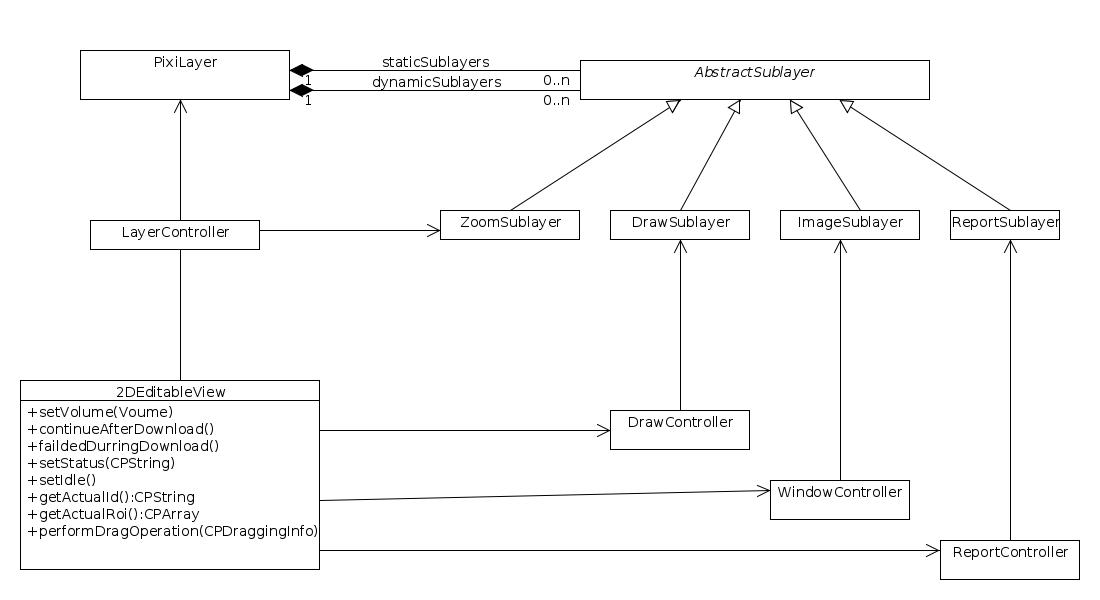
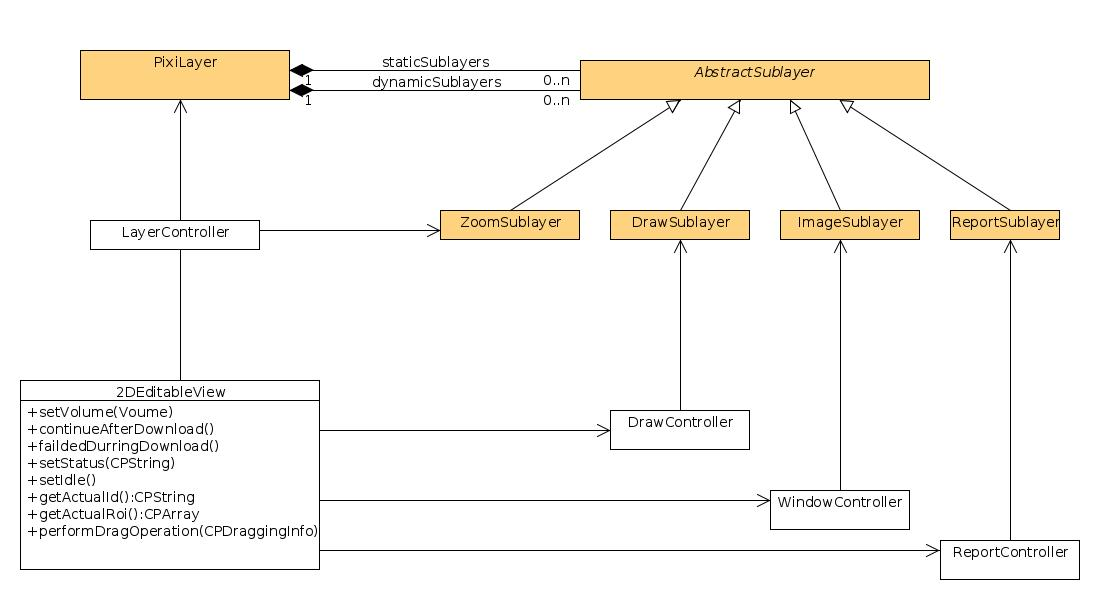
Kapitel3: Einleitungen und conclusio für kapitel hinzugefügt; Listings referenziert; Listings font geändert

diff --git a/s3_methodology.tex b/s3_methodology.tex
@@ -5,6 +5,15 @@
 %-------------------------------------------------------
 \section{Methodology}
 \label{sec:methodology}
+\C{
+In diesem Kapitel wird die Umsetzung des Web-Frontends für KRESHMOI beschrieben.
+Zuerst werden die wichtigsten Framworks und Technologien vorgestellt welche die technischen Grundlagen der Anwendung bilden.
+Weiters werden alle wichtigen funktionalen Anforderungen der Anwendung aufgezeigt und grundlegend auf die Bedienung der Applikation eingegangen.
+Wie die funktionalen Anforderungen umgesetzt wurden wird im darauf folgenden Unterkapitel beschrieben.
+Hier werden Lösungen für die technische Umsetzung der Fensterung sowie für die nicht funktionale Anforderung einer modularen Applikation präsentiert.
+Zum Schluss wird noch die API für KRESHMOI selbst vorgestellt welche die Anwendung für den Datenaustausch mit den System nutzt.
+}
+
 
 %----------------------------------------------
 % * Verwendetet Technologien
@@ -233,10 +242,10 @@ Weiters wird angegeben wie die Fensterung mit zwei verschiedenen Technologien im
 %----------------------------------------------
 \subsubsection{Framework für dynamischen Layouts}
 \label{sec:Umsetzung der dynamischen Layouts}
-Das eines der zentralen Konzepete bei der Darstellung von Bedien- und Anzeige-Elementen in Cappuccino ist die View Klasse (Siehe Figure \ref{fig:cappuccino_view_concept} ), 
+Eines der zentralen Konzepete bei der Darstellung von Bedien- und Anzeige-Elementen in Cappuccino ist die View Klasse (Siehe Figure \ref{fig:cappuccino_view_concept} ), 
 von welcher all diese Elemente erben.
 In eine View können wiederum weitere Sub-Views eingehängt und innerhalb dieser Positioniert werden.
-Die Darstellung der Elemente erfolgt in einem Fenster, welche als erste View in der Hirachie ihre sogenannte ContentView zur Verfügung stellt.
+Die Darstellung der Instanzierten Elemente erfolgt in einem Fenster, welche als erste View in der Hirachie ihre sogenannte ContentView zur Verfügung stellt.
 \begin{figure}[t]
 	\centering
 	\includegraphics[width=0.6\linewidth]{img/c3_cappuccino_view_concept.jpg}
@@ -255,9 +264,9 @@ im weiteren as Superelemente bezeichnet,
 erben von dieser View-Klasse, 
 wodurch Sie in einer übergeordneten View einfach in verschiedenen Layouts angeordnet werden können.
 Die Anordung der Superelemente sowie die Kommunikation zwischen ihnen erfolgt in einem LayoutController.
-Der LayoutController kapselt das von Ihm erstellte Layout in einer LayoutView welche dann in die ContentView des Fensters eingehängt wird.
+Der LayoutController kapselt das von Ihm erstellte Layout in einer LayoutView welche dann in die ContentView des Anzeige-Fensters eingehängt wird.
 Durch dieses Konzept (Siehe Figure \ref{fig:layout_framework} ) lassen sich die Anzahl und Anordung der Superelemente einfach zur Laufzeit ändern,
-da bei einer Änderung nur ein neuer LayoutController instanziert und seine LayoutView gegen die akutelle in der ContentView getauscht werden muss.
+da bei einer Änderung nur ein neuer LayoutController instanziert und seine LayoutView gegen die akutelle LayoutView in der ContentView getauscht werden muss.
 Zur Erhaltung der Nutzdaten muss jeder LayoutController Funktionen zum Setzen und Abfragen dieser zur Verfügung stellen.
 Die Behandlung von Layout-Änderungen finden im LayoutControllerManager statt, 
 welcher sich um den Austausch der LayoutView kümmert und die Nutzdaten vom alten in den neuen LayoutController überträgt.
@@ -392,29 +401,38 @@ Bei diesen Layern werden Skalierung und Positionierung nur auf den ImageLayer un
 Um die Software möglichst erweiterbar zu gestalten,
 wurde eine LayerKlasse $PixiLayer$ entwickelt welcher eine beliebige Menge von Sublayern hizugefügt werden kann.
 Dabei wird zwischen statischen Sublayern welche jeweils nur die Anzeigefläche ausfüllen und dynamischen Sublayern welche gemeinsam skaliert und positioniert werden können unterschieden.
-Diese Layerklasse erledigt auch die Konvertierung von Punkten zwischen den dynamischen und den statischen Sublayern, in Hisicht auf Postion, Skalierung und Layerdimension.
+Diese Layerklasse erledigt auch die Konvertierung von Punkten zwischen den dynamischen und den statischen Sublayern, im Bezug auf Postion, Skalierung und und der Abmessungen des Layers da das Zentrum als Nullpunkt angenommen wird.
 Da die restliche GUI mit Cappuccino aufgebaut wurde und dieses Framework auch die Ereignisse für Größenänderungen der einzelen Views behandelt,
-müssen diese vom ViewObjekt welches den 2D-Betrachter Kapselt an das Grafikfenster weiter gegeben werden.
-Ansonsten ist das Pixi.JS basierte Grafikfenster durch die LayerKlassen bis auf Funktionen zur Übergabe der Anzeigedaten und zur Punktkonvertierung vom 2D-Betrachter abgeschottet.
-Die eigentliche Logik des Betrachters ist in den Layern zugeordnete Controller-Klassen gekapselt.
+müssen diese vom Cappuccino View-Objekt welches den 2D-Betrachter Kapselt an das Grafikfenster weiter gegeben werden.
+Ansonsten ist das Pixi.JS basierte Grafikfenster durch die Layer- und Sublayler-Klassen bis auf Funktionen zur Übergabe der Anzeigedaten und zur Punktkonvertierung vom 2D-Betrachter abgeschottet.
+Die eigentliche Logik des Betrachters ist in den Sublayern zugeordnete Controller-Klassen gekapselt.
 Die Betrachter-Klasse selbst ist hauptsächlich für die Erstelltung der Bedienelemente und die Behandlung von Events verantwortlich.
+Die Grob-Architektur des Betrachters wird in Abbildung \ref{fig:omip_klass_layout} dargestellt.
+Die Klassen welche mit Pixi.JS interagieren und das Framework steuern sind in der Abbildung orange eingezeichnet.
 \begin{figure}[t]
 	\centering
 		\includegraphics[width=\linewidth]{img/s3_2dview_class_structure.jpg}
 	\caption{Struktur des 2D-Betrachters als Klassendiagramm}
-	\label{fig:omip_aplication_layout}
+	\label{fig:omip_klass_layout}
 \end{figure}
 
 Die Umsetzung der Fensterung im 2D-Betrachter erfolgte wegen der wesentlich besseren Performance in WebGL, 
 was der Grund für die Auswahl von Pixi.JS als Grafik-Framework ist.
 Die Fensterung wurde in einem Filter für Pixi.JS implementiert (Siehe Kapitel \ref{sec:PixiJS} ), welcher den GLSL-Shadercode auf das Schnittbild des Volumes anwendet.
+Neben der Fensterung war das Rendern von Text mit einer umfangreichen Toolbox ein weiters Kriterium für die Verwendung von Pixi.JS gegenüber der Grafik-API von Cappucino.
+
 
 %----------------------------------------------
 % * Kommunikation mit KRESHMOI
 %----------------------------------------------
 \subsection{Kommunikation mit KRESHMOI}
 \label{sec:Kommunikation mit KRESHMOI}
-Der Datenaustausch mit KRESHMOI basiert auf REST wobei sowohl auf die einzelnen Slices von einem Volume, als auch auf die Suche als Ressource über eine URL zugegriffen werden kann.
+\C{
+Die umsetzung von KRESHMOI erfolgte als ein System mit einer Service Orientierten Architektur (SOA).
+Dabei sind die einzelenen Komponenten des Gesamtsystems lose über REST oder SOAP Schnitstellen gekoppelt \cite{kreshmoi-architecture-spec}. 
+Der Datenaustausch mit dem Subsytem für die radiologische Bilsuche basiert auf REST, 
+wobei sowohl auf die einzelnen Slices von einem Volume, als auch auf die Suche als Ressource über eine URL zugegriffen werden kann.
+}
 
 %----------------------------------------------
 % ** Query nach Bilderns
@@ -423,30 +441,32 @@ Der Datenaustausch mit KRESHMOI basiert auf REST wobei sowohl auf die einzelnen 
 \label{sec:Query nach Bildern}
 Der Zugriff auf die Suchfunktion erfolgt über eine POST-Operation in welcher die Anfrage und die Antwort in JSON codiert werden.
 Zum Ausführen einer Suchanfrage stehen zwei Ressourcen zur Verfügung:
-\\
-\\
-\textit{/index}\\
-Liefert ein Array von allen Verfügbaren Datensätzen zurück 
-\\
-\\
-\textit{/query}\\
-Liefert ein Array von Datensätzen zurück welche anhand der Übergebenen Suchkriterien gefunden wurden.
+%
+\paragraph{\textit{/index}}
+Liefert eine Liste von allen Verfügbaren Datensätzen als JSON-Array zurück.
+%
+\paragraph{\textit{/query}}
+Liefert eine Liste von Datensätzen zurück welche anhand der Übergebenen Suchkriterien gefunden wurden.
 Eine Suchanfrage basiert immer auf einen Ausgangs-Datensatz welcher in der Anfrage übergeben werden muss.
 Für diesem Datensatz werden auf ein Schnittbild Interessante Bereiche (ROIs) definiert.
 Die Übergabe einer ROI erfolgt als Polygon in Form einer Listen von Punkten im Dreidimensionalen Raum des Volumes.
 
-Als Erbebniss liefert KRESHMOI eine Liste von Ergebniss-Datensätzen welches neben der ID, Bild-Dimension und Titel noch den Report zu dem entsprechenden Datensatz enthällt.
-Die Ergebnisse werden entsprechend der Übereinstimmung mit der Textur aus der Suchanfrage nach ihrer Relevanz sortiert in die Liste eingefügt und weiters wird die Relevanz noch als Kommazahl in den Ergebniss-Datensatz aufgenommen.
+Als Antwort auf eine der beiden POST Anfragen liefert KRESHMOI eine Liste von Ergebniss-Datensätzen als JSON-Array. 
+Jeder Ergebniss in der Liste enthält neben der ID mit der auf das Volume zugegriffen werden kann noch Bild-Dimension und Titel und den Report.
+Die Ergebnisse werden entsprechend der Übereinstimmung mit der Textur aus der Suchanfrage nach ihrer Relevanz sortiert. 
+Nach dieser gereiht werden Sie in die Liste eingefügt und weiters wird die Relevanz noch als Kommazahl in den Ergebniss-Datensatz aufgenommen.
 \begin{figure}[t]
 \begin{lstlisting}[
 	language=json,
 	firstnumber=1,
-	caption=Query
+	captionpos=b,
+	caption=Beispiel Query mit einem Dreieck als ROI.,
+	label=lst:query_json
 ]
 {
-   "queryid":"",
+   "queryid":"fcce002f-f0b6-4c1b-b2ab-b3ead07fb0b4",
    "text":"",
-   "imageid":"",
+   "imageid":"9587336b132b127b936ad0afd80ca862",
    "roi": 
    [
       "polygon":
@@ -466,7 +486,9 @@ Die Ergebnisse werden entsprechend der Übereinstimmung mit der Textur aus der S
 \begin{lstlisting}[
 	language=json,
 	firstnumber=1,
-	caption=Result
+	captionpos=b,
+	caption=Beispiel Resultat für eine Suchanfrage mit einem Datensatz als Ergebniss.,
+	label=lst:result_json
 ]
 {
    "rankedImageID": 
@@ -489,29 +511,43 @@ Die Ergebnisse werden entsprechend der Übereinstimmung mit der Textur aus der S
 % ** Laden der Bilder
 %----------------------------------------------
 \subsubsection{Laden der Bilder}
-\label{sec:Laden der Bilder}
+\label{sec:Laden_der_Bilder}
 Die Bilddaten eines Volumes können über eine GET-Operation geladen werden.
-Dabei wird jedes Volume als eine Resource im Unterverzeichnis \textit{/image/} identifiziert.
+Dabei wird jedes Volume als eine Resource im Unterverzeichnis \textit{/image/} identifiziert, 
+welche durch die Angabe von Parametern ein konkretes Schnittbild aus dem Volume liefert (Siehe Listing \ref{lst:query_get_volume} ).
 Über Parameter in der URL werden die Schnittrichtung und und die Nummer des Bildes in der jeweiligen Schnittebene angegeben.
 Wir keine Nummer für das Bild angegeben wählt KRESHMOI eine repräsentatives Bild für die Suchanfrage, welches für die Präsentation der Ergebnisse verwendet wird.
-Für die Schnittebene gibt es entsprechende der Terminologie für die Bildgebung in der Anatomie die Optionen:
+Für die Schnittebene gibt es entsprechende der Terminologie für die Bildgebung in der Anatomie (Siehe Figure \ref{fig:planes_body} ) die Optionen:
 \begin{itemize}
 	\item Axial: Die Schnitte erfolgen Waagrecht in der Transversalebene
 	\item Sagital: Die Schnitte erfolgen Senkrecht in der Sagitalebene
 	\item Coronal: Die Schnitte erfolgen Senkrecht in der Frontalebene 
 \end{itemize}
 Sollen die Regionen welche der Suchanfrage entsprechen in den einzelnen Bildern markiert werden, muss die Query-ID mit übergeben werden um die ursprüngliche Suchanfrage zu identifizieren.
-\\
-\\
+\begin{figure}
+	\centering
+	\includegraphics[width=0.3\linewidth]{img/planes_body.jpg}
+	\caption{Bezeichnung der Schnittachsen in der Radiologie}
+	\label{fig:planes_body}
+\end{figure}
 \begin{figure}[t]
 \begin{lstlisting}[
 	frame=single,
 	basicstyle=\small,
-	caption={Beispiel-Anfrage für eine Schnittbild}
+	captionpos=b,
+	caption={Beispiel-Anfrage für eine Schnittbild},
+	label=lst:query_get_volume
 ]
 image/958736b132b7b936ad0afd80ca86.jpg?slice=1&direction=axial&query=1
 \end{lstlisting}
 \end{figure}
+
+\C{
+In diesem Kapitel wurden die wichtigsten Funktionen der Webapplikation vorgestellt.
+Wir haben gesehen wie diese umgesetzt wurden und welche Technologien und Framework-Lösungen dafür verwendet wurden.
+Weiters wurde eine Teil der KRESHMOI API vorgestellt und wie die Applikation mit KRESHMOI kommuniziert.
+}
+
 
 %TODO: Prüfen ob URL ok
 %TODO: Zitieren von KRESHMOI API

diff --git a/cvl_bachelor_thesis.tex b/cvl_bachelor_thesis.tex
@@ -29,6 +29,8 @@
 \usepackage{changepage}							% for the titlepage
 \usepackage{a4}											% margin
 
+\usepackage{csquotes}
+
 \usepackage{listings}
 \usepackage{xcolor}
 \colorlet{punct}{red!60!black}
@@ -38,11 +40,12 @@
 
 \lstdefinelanguage{json}{
     numbers=left,
-    numberstyle=\small,
+    numberstyle=\footnotesize,
     stepnumber=1,
     showstringspaces=false,
     breaklines=true,
-    frame=lines,
+    frame=single,
+    basicstyle=\footnotesize,
     literate=
      *{0}{{{\color{numb}0}}}{1}
       {1}{{{\color{numb}1}}}{1}
@@ -104,15 +107,15 @@
 \lstdefinelanguage{JavaScript}{
   sensitive=true,
   keywords={typeof, new, true, false, catch, function, return, null, catch, switch, var, if, in, while, do, else, case, break, for},
-  basicstyle=\color{black}\small,
-  keywordstyle=\color{blue}\small,
+  basicstyle=\color{black}\footnotesize,
+  keywordstyle=\color{blue}\footnotesize,
   ndkeywords={class, export, boolean, throw, implements, import, this},
-  ndkeywordstyle=\color{darkgray}\small,
+  ndkeywordstyle=\color{darkgray}\footnotesize,
   identifierstyle=\color{black},
   comment=[l]{//},
   morecomment=[s]{/*}{*/},
-  commentstyle=\color{purple}\small,
-  stringstyle=\color{red}\small,
+  commentstyle=\color{purple}\footnotesize,
+  stringstyle=\color{red}\footnotesize,
   %morestring=[b]',
   numbers=left,
   numberstyle=\small,
@@ -211,9 +214,9 @@
   morecomment=[l]{//},
   morecomment=[s]{/*}{*/},
   morecomment=[l][keywordstyle4]{\#},
-  keywordstyle=\color{blue}\small,
+  keywordstyle=\color{blue}\footnotesize,
   numbers=left,
-  numberstyle=\small,
+  numberstyle=\footnotesize,
   stepnumber=1,
   showstringspaces=false,
   breaklines=true,
